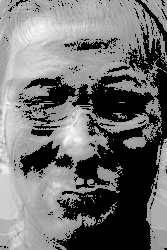
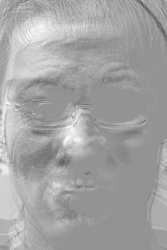
eigenvektoren ausgeben: bildbereiche mit der helligkeit 0 ebenfalls aufgehellt fuer schoeneres ergebnis

diff --git a/Versuch6/facerecognitionTemplate.py b/Versuch6/facerecognitionTemplate.py
@@ -312,10 +312,9 @@ def calculateNormedArrayOfFacesReverse(originalMatrix, normedArray):
     
     for row in range(len(normedArray)):
         for coulumn in range(pictureLength):
-            if normedArray[row][coulumn] > 0:
-                resultMatrix[row][coulumn] = normedArray[row][coulumn] + averageImage[row]
-                if resultMatrix[row][coulumn] > 1:
-                    resultMatrix[row][coulumn] = 1
+            resultMatrix[row][coulumn] = normedArray[row][coulumn] + averageImage[row]
+            if resultMatrix[row][coulumn] > 1:
+                resultMatrix[row][coulumn] = 1
     return resultMatrix
     
 
